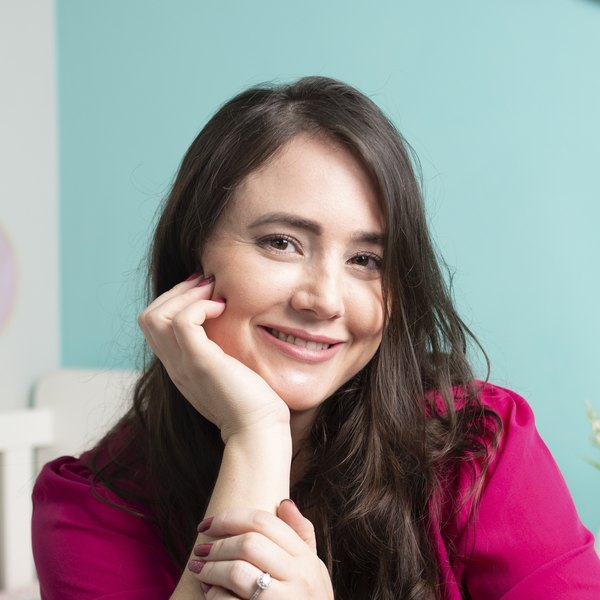
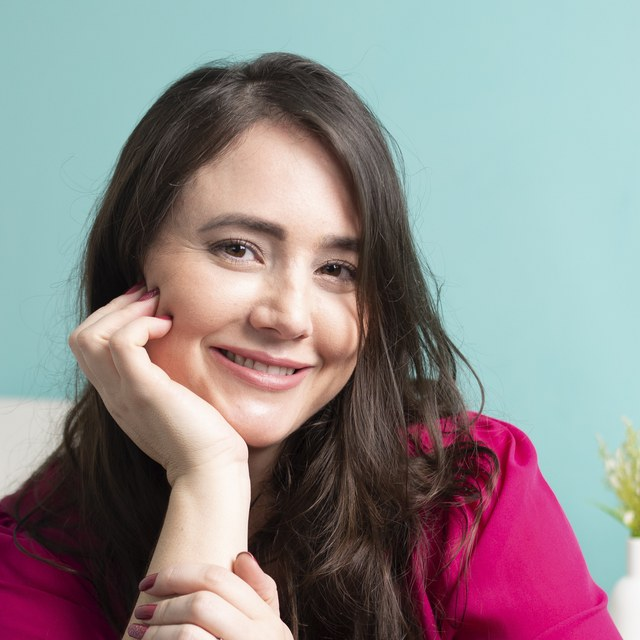
Dream Baby Pocket: imagem de bebê dormindo + copy do quiz de perfil de sono; foto da Day maior e reenquadrada

diff --git a/index.html b/index.html
@@ -72,7 +72,7 @@
 
   /* BIO */
   .bio{background:#fff;color:#333;border-radius:24px;padding:34px;margin-top:54px;display:flex;gap:30px;align-items:center;box-shadow:0 14px 34px rgba(0,0,0,.14)}
-  .bio img{width:175px;height:175px;border-radius:50%;object-fit:cover;object-position:center 25%;border:5px solid var(--teal);flex-shrink:0}
+  .bio img{width:220px;height:220px;border-radius:50%;object-fit:cover;object-position:center center;border:5px solid var(--teal);flex-shrink:0}
   .bio h3{font-weight:700;font-size:1.9rem;color:var(--teal-dark);margin-bottom:10px}
   .bio p{font-size:.95rem;margin-bottom:10px;color:#444}
   .bio p:last-child{margin-bottom:0}
@@ -120,10 +120,10 @@
 
     <article class="card magenta">
       <h2>Dream Baby Pocket</h2>
-      <span class="badge">curso rápido de sono</span>
-      <img class="thumb" src="https://manualdorecemnascido.com.br/wp-content/uploads/2025/06/7-1024x576.png" alt="Dream Baby Pocket">
-      <p>bebê que só dorme no colo e acorda chorando? a versão pocket do meu método de sono te dá o passo a passo direto ao ponto pra seu bebê dormir bem.</p>
-      <a class="btn" href="https://perfis.manualdorecemnascido.com.br/?utm_source=instagram&utm_medium=manychat&utm_campaign=boas-vindas&utm_content=dreambaby-pocket">Quero o Dream Baby Pocket</a>
+      <span class="badge">quiz do sono do bebê</span>
+      <img class="thumb" src="assets/baby-sono.jpg" alt="Bebê dormindo tranquilo">
+      <p>todo bebê dorme de um jeito. faça o quiz rápido e descubra o perfil de sono do seu bebê, com o caminho certo pra ele dormir bem e a família descansar.</p>
+      <a class="btn" href="https://perfis.manualdorecemnascido.com.br/?utm_source=instagram&utm_medium=manychat&utm_campaign=boas-vindas&utm_content=dreambaby-pocket">Descobrir o perfil de sono</a>
     </article>
 
     <article class="card blue">